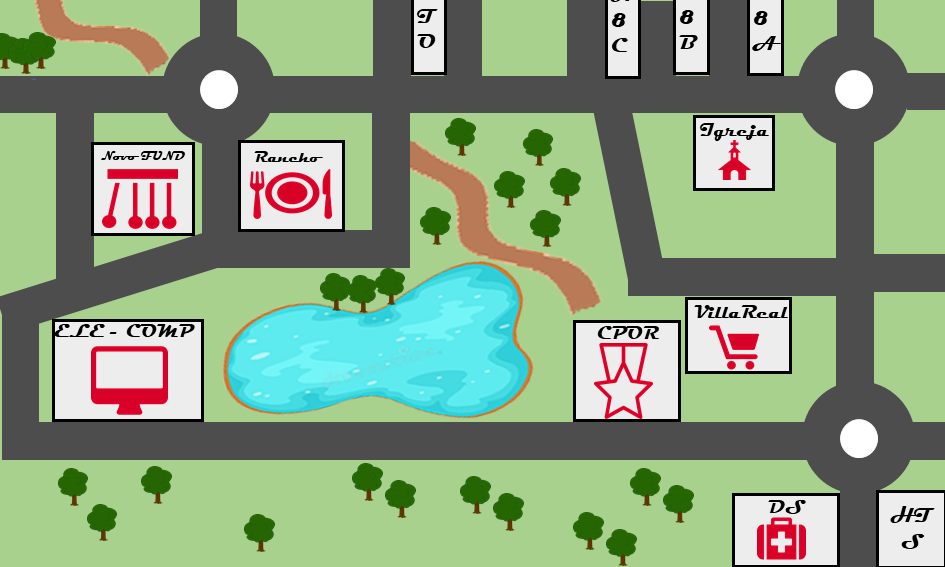
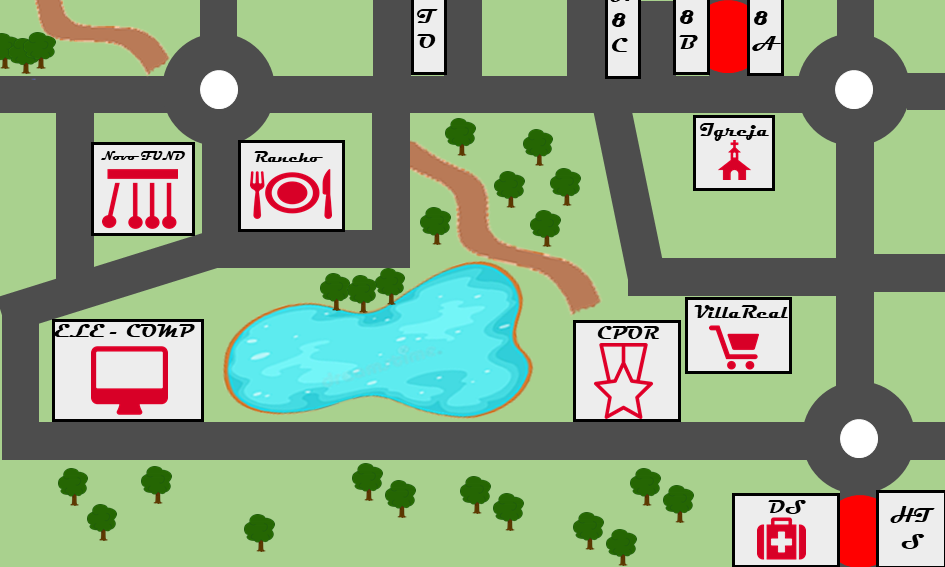
Message before the game starts.

Changed region(s): [[0.8899, 0.8695, 0.9513, 1.0], [0.7365, 0.0, 0.7979, 0.1499]]

diff --git a/Game.py b/Game.py
@@ -11,6 +11,78 @@ from Functions import *
 SCREENWIDTH = 945 #largura
 SCREENHEIGHT = 565 #altura
 
+def tutorial(phase, screen):
+    # Definição da Fonte
+    Font = pygame.font.SysFont("arial", 20, True)
+
+    bx = 400  # x-size of box
+    by = 400  # y-size of box
+
+    # make the presentation box
+    box = pygame.surface.Surface((bx, by))
+    box.fill(WHITE)
+    pygame.draw.rect(box, SKYBLUE, (50, 12, bx - 100, 35), 0)
+    pygame.draw.rect(box, SKYBLUE, (50, by - 60, bx - 100, 42), 0)
+    pygame.draw.rect(box, BLACK, (0, 0, bx, by), 1)
+    txt_surf = Font.render("Fase iniciada", True, BLACK)  # headline
+    txt_rect = txt_surf.get_rect(center=(bx // 2, 30))
+    box.blit(txt_surf, txt_rect)
+    txt_surf = Font.render("ENTER para Fugir da PA", True, BLACK)  # bottom line
+    txt_rect = txt_surf.get_rect(center=(bx // 2, 360))
+    box.blit(txt_surf, txt_rect)
+
+    txt_surf = []
+    if phase == 1:
+        txt_surf.append(Font.render("Fase: entregando relatorio", True, BLACK))
+        txt_surf.append(Font.render("como um aluno iteano. Voce", True, BLACK))
+        txt_surf.append(Font.render("precisa ir ao H8, pegar seu", True, BLACK))
+        txt_surf.append(Font.render("relatorio do Osamu, e", True, BLACK))
+        txt_surf.append(Font.render("entregar no prédio da COMP!", True, BLACK))
+        txt_surf.append(Font.render("Os checkpoints correspondem", True, BLACK))
+        txt_surf.append(Font.render("aos pontos em vermelho nos", True, BLACK))
+        txt_surf.append(Font.render("mapas. Fique atento ao tempo,", True, BLACK))
+        txt_surf.append(Font.render("ele também conta no Score!", True, BLACK))
+        txt_surf.append(Font.render("Bom jogo. Fuja da PA!!!", True, BLACK))
+    elif phase == 2:
+        txt_surf.append(Font.render("Fase: levando o amigo à DS", True, BLACK))
+        txt_surf.append(Font.render("Apesar de estar em apuros", True, BLACK))
+        txt_surf.append(Font.render("com a PA, voce nao deixará", True, BLACK))
+        txt_surf.append(Font.render("seu amigo na mão! Ele está", True, BLACK))
+        txt_surf.append(Font.render("no H8 passando mal, e você", True, BLACK))
+        txt_surf.append(Font.render("o levará na DS! Atente", True, BLACK))
+        txt_surf.append(Font.render("aos pontos em vermelho nos", True, BLACK))
+        txt_surf.append(Font.render("mapas. Fique atento ao tempo,", True, BLACK))
+        txt_surf.append(Font.render("ele também conta no Score!", True, BLACK))
+        txt_surf.append(Font.render("Bom jogo. Fuja da PA!!!", True, BLACK))
+    else:
+        txt_surf.append(Font.render("Fase: fuja do CTA", True, BLACK))
+        txt_surf.append(Font.render("Você terá que sair do CTA", True, BLACK))
+        txt_surf.append(Font.render("dessa vez. Mas, antes, voce", True, BLACK))
+        txt_surf.append(Font.render("realizará compras no Villa", True, BLACK))
+        txt_surf.append(Font.render("e se despedirá de seus", True, BLACK))
+        txt_surf.append(Font.render("professores na ELE - COMP", True, BLACK))
+        txt_surf.append(Font.render("Agora são três checkpoints", True, BLACK))
+        txt_surf.append(Font.render("Fique atento ao tempo,", True, BLACK))
+        txt_surf.append(Font.render("ele também conta no Score!", True, BLACK))
+        txt_surf.append(Font.render("Bom jogo. Fuja da PA!!!", True, BLACK))
+
+    for i in range(10):
+        txt_rect = txt_surf[i].get_rect(center=(bx // 2, 30 * i + 60))
+        box.blit(txt_surf[i], txt_rect)
+
+    screen.blit(box, (SCREENWIDTH / 4, SCREENHEIGHT / 10))
+    pygame.display.flip()
+
+    while True:  # wait for user to acknowledge and return
+        for event in pygame.event.get():
+            if event.type == pygame.QUIT:
+                pygame.quit()
+                sys.exit()
+            if event.type == pygame.KEYDOWN and event.key in [pygame.K_RETURN, pygame.K_KP_ENTER]:
+                return
+        pygame.time.wait(20)
+
+
 def game(level, screen):
 
     score = 0
@@ -28,6 +100,7 @@ def game(level, screen):
         image = Background('./assets/Map_3.png', [0, 0])
 
     screen.blit(image.image, image.rect)
+    tutorial(level.id, screen)
 
     #Initialization variables
     player_x0 = 0.1*SCREENWIDTH

diff --git a/highscore.py b/highscore.py
@@ -106,7 +106,7 @@ def enterbox(screen, txt):
             pygame.time.wait(300)
 
     def show_name(screen, name):
-        # Definiçãoda Fonte
+        # Definição da Fonte
         Font = pygame.font.SysFont("arial", 20, True)
         pygame.draw.rect(box, WHITE, (50, 60, bx - 100, 20), 0)
         txt_surf = Font.render(name, True, BLACK)
